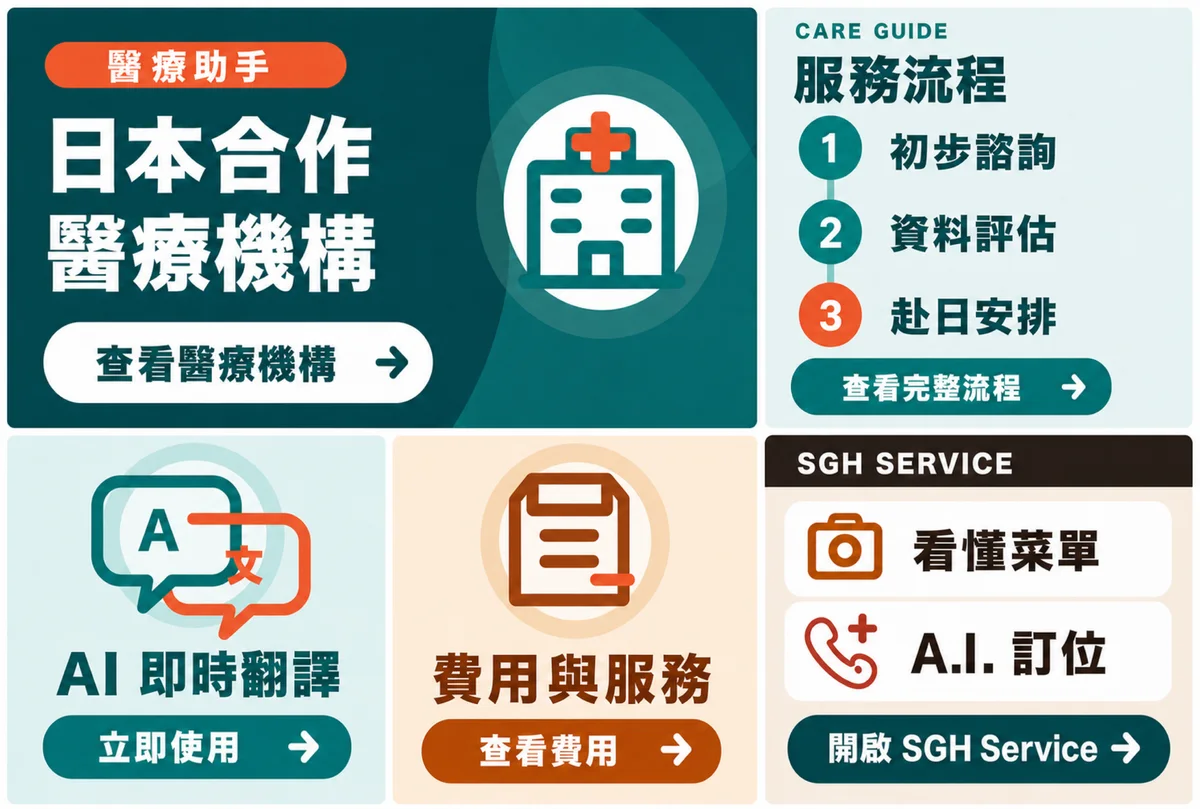
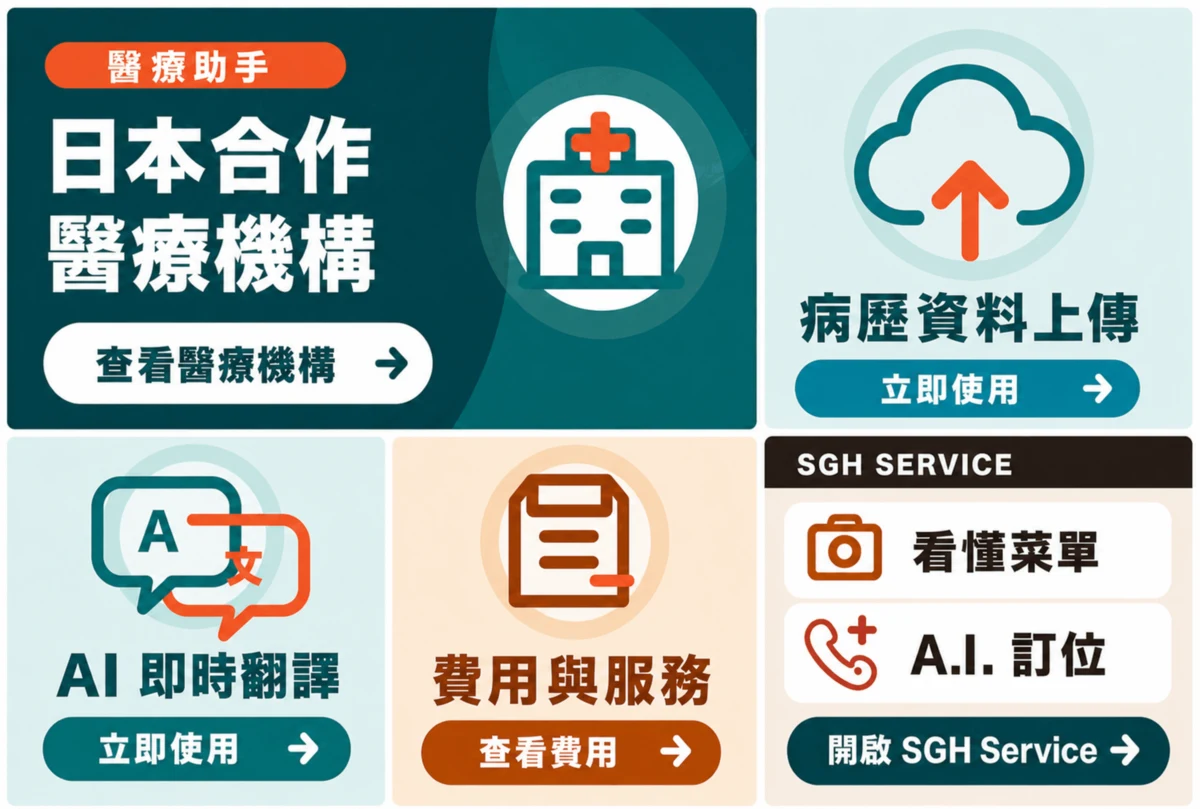
docs: align LINE Rich Menu V6

diff --git a/README.tr.md b/README.tr.md
@@ -67,8 +67,8 @@ LINE yalnızca bir bildirim kanalı değildir. SGH; talebi LINE'da karşılayan,
 
 | LINE/LIFF girişi | Kullanıcının karşılaştığı işlevler | Güncel konumlandırma |
 |---|---|---|
-| Medical Supporter Official LINE | Japonya'daki sağlık kuruluşları, hizmet akışı, danışma kanalı, MyPage yaklaşımı ve rezervasyon/vaka bilgilerine geçiş | Resmî danışma girişi ve LINE Login akışı mevcut; Rich Menu kullanımda. MyPage MVP/entegrasyon hazırlığı aşamasında |
-| 醫療助手 LINE | Sağlık kuruluşu rehberi, hizmet akışı, AI anlık çeviri girişi, ücret/hizmet bilgisi ve SGH SERVICE | LINE Official Account ve Rich Menu kullanım örneği mevcut. Çeviri iletişimi destekler; tıbbi karar vermez |
+| Medical Supporter Official LINE | Japonya'daki sağlık kuruluşları, MyPage, yönlendirmeye bağlı tıbbi belge yükleme, AI anlık çeviri ve SGH SERVICE | Rich Menu V6 kullanımı doğrulandı. MyPage MVP/entegrasyon aşamasında; belgeler yalnızca kimliği doğrulanmış resmî akışta işlenir |
+| 醫療助手 LINE | Japonya'daki sağlık kuruluşları, yönlendirmeye bağlı tıbbi belge yükleme, AI anlık çeviri, ücret/hizmet bilgisi ve SGH SERVICE | Rich Menu V6 kullanımı doğrulandı. Çeviri iletişimi destekler; tıbbi karar vermez |
 | SGH SERVICE LINE/LIFF | AI'ın talebi yapılandırıp Web doğrulama, üyelik ve başvuru akışına aktardığı hizmet girişi | Uygulama örneği mevcut. Gerçek gönderim, haricî AI, rezervasyon ve telefon; kimlik doğrulama, sözleşme ve ücret kontrolünden sonra |
 | MenuBridge LIFF | Kamerayla menüyü okuyup içeriği ve sipariş koşullarını çok dilli anlamaya yarayan giriş | Mevcut ürün yüzeyi. AI kullanım miktarı ve sunum koşulları hizmet ekranına tabidir |
 | Klinikler için LINE/LIFF | LINE rezervasyonu, MyPage, bildirim ve online görüşmeye giriş akışı | MS Platform public mock demo ve productized pre-pilot. Gerçek kullanım, kuruma özel sözleşme ve başlangıç ayarlarından sonra |
@@ -81,17 +81,17 @@ LINE yalnızca bir bildirim kanalı değildir. SGH; talebi LINE'da karşılayan,
     <td width="50%"><img src="assets/medical-assistant-line-rich-menu.webp" alt="Tıbbi destek LINE Rich Menu"></td>
   </tr>
   <tr>
-    <td align="center"><strong>MEDICAL SUPPORTER</strong><br>MyPage, danışma durumu, rezervasyon kaydı ve belge yolu</td>
-    <td align="center"><strong>醫療助手</strong><br>Hizmet akışı, AI çeviri yolu ve SGH SERVICE</td>
+    <td align="center"><strong>MEDICAL SUPPORTER</strong><br>MyPage, tıbbi belge yükleme, AI anlık çeviri ve SGH SERVICE</td>
+    <td align="center"><strong>醫療助手</strong><br>Tıbbi belge yükleme, AI anlık çeviri, ücret/hizmet ve SGH SERVICE</td>
   </tr>
 </table>
 
-Yukarıdaki örneklerin 22 Temmuz 2026 tarihinde mevcut LINE Official Account'lara kaydedildiği doğrulanmıştır. Bu, her düğmenin hedefinin veya tüm MyPage işlevlerinin production ortamında genel kullanıma açık olduğu anlamına gelmez. Skill'i kurmak da bu işlevleri ya da ücretli SGH hizmetlerini ücretsiz hâle getirmez.
+Yukarıdaki Rich Menu V6 örnekleri 24 Temmuz 2026 tarihinde mevcut LINE Official Account'lara kaydedilmiş ve altı URI action doğrulanmıştır. Bu, bağlı her işlevin production ortamında genel kullanıma açık olduğu anlamına gelmez. Herkese açık Skill tıbbi belge almaz veya yüklemez; kurulumu SGH telefonu, insan operasyonları ya da diğer ücretli hizmetleri ücretsiz hâle getirmez.
 
 > [!IMPORTANT]
 > Herkese açık Skill LINE mesajı göndermez veya Rich Menu yayımlamaz. Hasta kaydı oluşturmaz, tıbbi belge yüklemez, telefon etmez, rezervasyon veya ödeme yapmaz. Bu katman yalnızca hizmet keşfi, gereksinim düzenleme, Brief hazırlama ve resmî kanala yönlendirme sağlar.
 
-[Medical Supporter'ı inceleyin](https://medicalsupporter.org/?utm_source=github&utm_medium=referral&utm_campaign=sgh_skill) ・ [Medical Supporter Official LINE'ı açın](https://line.me/R/ti/p/%40acl1165c)
+[Medical Supporter'ı inceleyin](https://medicalsupporter.org/?utm_source=github&utm_medium=referral&utm_campaign=sgh_skill) ・ [Medical Supporter Official LINE'ı açın](https://line.me/R/ti/p/%40139snanl) ・ [醫療助手 LINE'ı açın](https://line.me/R/ti/p/%40acl1165c)
 
 ## Tek bir Bot değil, yeniden kullanılabilir bir LINE uygulama portföyü
 
@@ -173,7 +173,7 @@ Durumu ve sonucu izle ← Yalnızca gerektiğinde ← Doğru resmî kanala yöne
 - Japonca bir başvurunun içeriğini hazırlamak isteyenler
 - Rezervasyon, otel ve günlük yaşam hizmetleri için sorulacakları düzenlemek isteyenler
 - Uluslararası hasta desteği için doğru danışma kanalını arayanlar
-- Medical Supporter LINE, MyPage ve hizmet akışının girişini görmek isteyenler
+- Medical Supporter/醫療助手 LINE üzerinden MyPage, tıbbi belge yükleme, AI anlık çeviri ve ücret/hizmet için doğru girişi bulmak isteyenler
 - Japonca bir sonucu veya açıklamayı kendi dillerinde anlamak isteyenler
 
 ### Şirketler, klinikler, yerel yönetimler ve konaklama işletmeleri
@@ -294,7 +294,7 @@ SGH Pass, satın alınmış veya bedeli düzenleyen kuruluş tarafından karşı
 | Korece ve Türkçe | Yalnızca README / discovery copy |
 | API sonuç dilleri | Japonca, Geleneksel Çince ve İngilizce (Phase 1) |
 
-Son doğrulama: **2026-07-22**
+Son doğrulama: **2026-07-24**
 
 ## Kurulum
 

diff --git a/README.ko.md b/README.ko.md
@@ -67,8 +67,8 @@ LINE은 단순한 알림 채널이 아닙니다. SGH는 LINE에서 상담을 접
 
 | LINE/LIFF 입구 | 사용자가 만나는 기능 | 현재 위치 |
 |---|---|---|
-| Medical Supporter Official LINE | 일본 의료기관 안내, 서비스 흐름, 상담 창구, MyPage 구상, 예약·사례 정보로 이어지는 동선 | 공식 상담 입구와 LINE Login 동선이 있으며 Rich Menu 운영 중. MyPage는 MVP/연계 정비 중 |
-| 醫療助手 LINE | 의료기관 안내, 서비스 흐름, AI 실시간 번역 입구, 요금·서비스, SGH SERVICE | LINE Official Account와 Rich Menu 운영 사례가 있음. 번역은 의사소통 보조이며 의료 판단이 아님 |
+| Medical Supporter Official LINE | 일본 의료기관, MyPage, 안내에 따른 의료기록 제출, AI 실시간 번역, SGH SERVICE | Rich Menu V6 운영 확인. MyPage는 MVP/연계 정비 중이며 자료는 인증된 공식 동선에서만 처리 |
+| 醫療助手 LINE | 일본 의료기관, 안내에 따른 의료기록 제출, AI 실시간 번역, 요금·서비스, SGH SERVICE | Rich Menu V6 운영 확인. 번역은 의사소통 보조이며 의료 판단이 아님 |
 | SGH SERVICE LINE/LIFF | AI가 상담을 구조화해 Web 확인, 회원, 요청 동선으로 넘기는 서비스 입구 | 구현 사례 있음. 실제 발송, 외부 AI, 예약, 전화는 인증·계약·요금 확인 후 |
 | MenuBridge LIFF | 카메라로 메뉴를 읽고 다국어로 내용과 주문 조건을 이해하는 입구 | 기존 제품 화면. AI 사용량과 제공 조건은 서비스 화면을 따름 |
 | 클리닉용 LINE/LIFF | LINE 예약, MyPage, 알림, 온라인 진료 입실 동선 | MS Platform의 공개 mock Demo 및 productized pre-pilot. 실사용은 의료기관별 계약·초기 설정 후 |
@@ -81,17 +81,17 @@ LINE은 단순한 알림 채널이 아닙니다. SGH는 LINE에서 상담을 접
     <td width="50%"><img src="assets/medical-assistant-line-rich-menu.webp" alt="의료 조수 LINE Rich Menu"></td>
   </tr>
   <tr>
-    <td align="center"><strong>MEDICAL SUPPORTER</strong><br>MyPage·상담 진행·예약 기록·자료 제출 동선</td>
-    <td align="center"><strong>醫療助手</strong><br>서비스 흐름·AI 번역 동선·SGH SERVICE</td>
+    <td align="center"><strong>MEDICAL SUPPORTER</strong><br>MyPage·의료기록 제출·AI 실시간 번역·SGH SERVICE</td>
+    <td align="center"><strong>醫療助手</strong><br>의료기록 제출·AI 실시간 번역·요금/서비스·SGH SERVICE</td>
   </tr>
 </table>
 
-위 이미지는 2026년 7월 22일 기존 LINE Official Account에 저장된 것을 확인한 Rich Menu 사례입니다. 각 버튼의 목적지나 전체 MyPage가 모두 production에서 일반 공개되었다는 뜻은 아니며, Skill 설치만으로 해당 기능 또는 SGH 유료 서비스가 무료로 열리지도 않습니다.
+위 이미지는 2026년 7월 24일 기존 LINE Official Account에 저장하고 여섯 개 URI action을 모두 확인한 Rich Menu V6 사례입니다. 각 연결 기능이 모두 production에서 일반 공개되었다는 뜻은 아닙니다. 공개 Skill은 의료기록을 받거나 업로드하지 않으며, 설치만으로 SGH 전화·인력 운영·기타 유료 서비스가 무료로 열리지도 않습니다.
 
 > [!IMPORTANT]
 > 공개 Skill은 LINE 메시지를 보내거나 Rich Menu를 게시하지 않습니다. 환자 계정을 만들거나 의료기록을 업로드하지 않으며, 전화·예약·결제도 실행하지 않습니다. 여기서는 서비스 발견, 요구사항 정리, Brief 작성과 공식 창구 안내까지만 제공합니다.
 
-[Medical Supporter 보기](https://medicalsupporter.org/?utm_source=github&utm_medium=referral&utm_campaign=sgh_skill) ・ [Medical Supporter Official LINE 열기](https://line.me/R/ti/p/%40acl1165c)
+[Medical Supporter 보기](https://medicalsupporter.org/?utm_source=github&utm_medium=referral&utm_campaign=sgh_skill) ・ [Medical Supporter Official LINE 열기](https://line.me/R/ti/p/%40139snanl) ・ [醫療助手 LINE 열기](https://line.me/R/ti/p/%40acl1165c)
 
 ## 하나의 Bot이 아니라 재사용 가능한 LINE 구현 포트폴리오
 
@@ -171,7 +171,7 @@ Track                 Execute                Route
 - 일본어 문의 내용을 준비하고 싶다
 - 예약, 호텔, 생활 서비스의 확인 항목을 정리하고 싶다
 - 해외 환자 지원의 올바른 상담 창구를 알고 싶다
-- Medical Supporter LINE과 MyPage·서비스 흐름의 입구를 알고 싶다
+- Medical Supporter/醫療助手 LINE에서 MyPage·의료기록 제출·AI 실시간 번역·요금/서비스의 올바른 입구를 알고 싶다
 - 일본어 결과나 안내를 자신의 언어로 이해하고 싶다
 
 ### 기업·클리닉·지자체·숙박 사업자
@@ -292,7 +292,7 @@ SGH Pass는 구매했거나 발행자가 비용을 부담한 이용 자격입니
 | 한국어·터키어 | README / discovery copy만 제공 |
 | API 결과 언어 | 일본어·번체중문·영어(Phase 1) |
 
-최종 확인일: **2026-07-22**
+최종 확인일: **2026-07-24**
 
 ## 설치
 

diff --git a/README.en.md b/README.en.md
@@ -68,8 +68,8 @@ LINE is more than a notification channel. SGH already has LINE Official Account,
 
 | LINE / LIFF entry point | What users can discover | Current positioning |
 |---|---|---|
-| Medical Supporter Official LINE | Medical providers in Japan, the service journey, inquiry channels, the MyPage concept, and routes to booking and case information | Formal consultation and LINE Login routes exist, and the Rich Menu is in operation; MyPage is an MVP under integration; never enter medical records into the public Skill |
-| Medical Assistant LINE | Medical-provider guidance, the service flow, an AI real-time translation entry point, pricing and services, and SGH SERVICE | LINE Official Account / Rich Menu operating example available; translation assists communication and does not replace medical judgment |
+| Medical Supporter Official LINE | Medical providers in Japan, MyPage, an authorized medical-record upload route, AI live translation, and SGH SERVICE | Rich Menu V6 operation confirmed; MyPage is an MVP under integration; records are handled only through an authenticated official route |
+| Medical Assistant LINE | Medical providers in Japan, an authorized medical-record upload route, AI live translation, pricing and services, and SGH SERVICE | Rich Menu V6 operation confirmed; translation assists communication and does not replace medical judgment |
 | SGH SERVICE LINE / LIFF | AI structures a request, then passes it to web-based confirmation, membership, and service-request journeys | Implementation examples exist; real messaging, external AI, reservations, and phone calls require authentication, contract, and pricing checks |
 | MenuBridge LIFF | Use a camera to read a menu and understand its contents and ordering conditions in multiple languages | Existing product surface; AI usage and service conditions follow the applicable service display |
 | Clinic-specific LINE / LIFF | Clinic-configured LINE booking, MyPage, notifications, and online-consultation entry | MS Platform public mock demo / productized pre-pilot; production use requires an individual implementation, tenant configuration, and LINE setup |
@@ -82,14 +82,14 @@ LINE is more than a notification channel. SGH already has LINE Official Account,
     <td width="50%"><img src="assets/medical-assistant-line-rich-menu.webp" alt="Medical Assistant LINE Rich Menu"></td>
   </tr>
   <tr>
-    <td align="center"><strong>MEDICAL SUPPORTER</strong><br>MyPage, inquiry progress, booking history, and document journey</td>
-    <td align="center"><strong>MEDICAL ASSISTANT</strong><br>Service flow, AI translation entry, and SGH SERVICE</td>
+    <td align="center"><strong>MEDICAL SUPPORTER</strong><br>MyPage, medical-record upload, AI live translation, and SGH SERVICE</td>
+    <td align="center"><strong>MEDICAL ASSISTANT</strong><br>Medical-record upload, AI live translation, pricing and services, and SGH SERVICE</td>
   </tr>
 </table>
 
-These are Rich Menu examples confirmed as saved in existing LINE Official Accounts on July 22, 2026. They do not mean that every downstream feature shown is fully live, nor do they grant free access to SGH calls, human operations, or other paid services when the GitHub Skill is installed.
+These are Rich Menu V6 examples saved in existing LINE Official Accounts and verified across all six URI actions on July 24, 2026. They do not mean that every downstream feature shown is fully live. The public Skill cannot receive or upload medical records, and installing it does not grant free access to SGH calls, human operations, or other paid services.
 
-[Explore Medical Supporter](https://medicalsupporter.org/?utm_source=github&utm_medium=referral&utm_campaign=sgh_skill) ・ [Open Medical Supporter Official LINE](https://line.me/R/ti/p/%40acl1165c)
+[Explore Medical Supporter](https://medicalsupporter.org/?utm_source=github&utm_medium=referral&utm_campaign=sgh_skill) ・ [Open Medical Supporter Official LINE](https://line.me/R/ti/p/%40139snanl) ・ [Open Medical Assistant LINE](https://line.me/R/ti/p/%40acl1165c)
 
 ## Not one universal Bot—a reusable LINE implementation portfolio
 
@@ -172,7 +172,7 @@ The public Skill supports discovery, structuring, and routing. It does not send 
 
 - Find the appropriate Medical Supporter or Medical Assistant LINE entry point
 - Prepare a Japanese-language inquiry and pre-booking checklist
-- Understand MyPage, the service journey, and international-patient support channels
+- Understand the proper routes for MyPage, medical-record upload, AI live translation, pricing, and international-patient support
 - Understand Japanese-language guidance in your own language
 - Review pricing and shared information before any paid execution
 
@@ -311,7 +311,7 @@ An SGH Pass represents an entitlement that has already been purchased or is fund
 | Korean and Turkish | README / discovery copy |
 | API result languages | Japanese, Traditional Chinese, and English (Phase 1) |
 
-Last reviewed: **2026-07-22**
+Last reviewed: **2026-07-24**
 
 ## Installation
 

diff --git a/skills/sgh-japan-assistant/references/line-and-platform.md b/skills/sgh-japan-assistant/references/line-and-platform.md
@@ -2,7 +2,7 @@
 
 Use this reference when the user mentions LINE, LIFF, Rich Menu, Medical Supporter LINE, 醫療助手, SGH SERVICE, MenuBridge, MS Platform, MyPage, clinic booking, or online consultation.
 
-Last verified: 2026-07-22
+Last verified: 2026-07-24
 
 ## Route selection
 
@@ -18,18 +18,19 @@ Last verified: 2026-07-22
 
 ### Medical Supporter Official LINE
 
-- Verified public surface: an existing LINE Official Account, public add-friend route, LINE Login lead route, privacy/terms pages, and a Rich Menu saved and visually confirmed on 2026-07-22.
-- Visible entry concepts: Japanese medical organizations, consultation, MyPage, case and appointment concepts, instructed medical-record upload, fees/services, and SGH Service.
+- Verified public surface: an existing LINE Official Account, public add-friend route, LINE Login lead route, privacy/terms pages, and Rich Menu V6. The V6 image, thumbnail, and six URI actions were saved and visually verified on 2026-07-24.
+- Visible entry concepts: Japanese medical organizations, MyPage, instructed medical-record upload, AI live translation, and SGH Service.
 - Safe description: an official multilingual consultation and coordination entry for overseas patients.
-- Limit: the current MyPage frontend is MVP/integration-in-progress; do not claim the complete MyPage backend or every Rich Menu destination is generally live. Do not collect a medical record in the public Skill. File upload is only for an authorized user following the service's instructions.
-- Official URLs: https://medicalsupporter.org/ and https://line.me/R/ti/p/%40acl1165c
+- Limit: the current MyPage frontend is MVP/integration-in-progress; do not claim the complete MyPage backend or every Rich Menu destination is generally live. Do not collect a medical record in the public Skill. File upload is only for an authorized user following the service's instructions, and its private destination must not be copied into this public repository.
+- Official URLs: https://medicalsupporter.org/ and https://line.me/R/ti/p/%40139snanl
 
 ### 醫療助手 LINE
 
-- Verified public surface: an existing LINE Official Account and Rich Menu were saved and visually confirmed on 2026-07-22.
-- Visible entry concepts: Japanese medical organizations, service flow, AI live-translation entry, fees/services, and SGH Service.
+- Verified public surface: an existing LINE Official Account and Rich Menu V6. The V6 image, thumbnail, and six URI actions were saved and visually verified on 2026-07-24.
+- Visible entry concepts: Japanese medical organizations, instructed medical-record upload, AI live translation, fees/services, and SGH Service.
 - Safe description: a Traditional-Chinese-facing medical-support and communication entry.
-- Limit: AI translation is communication assistance, not diagnosis, treatment advice, interpretation certification, or a guaranteed real-time service in every context.
+- Limit: AI translation is communication assistance, not diagnosis, treatment advice, interpretation certification, or a guaranteed real-time service in every context. Medical-record upload is available only through the authorized service route; its private destination is intentionally omitted here.
+- Official URL: https://line.me/R/ti/p/%40acl1165c
 
 ### SGH SERVICE / MenuBridge LINE and LIFF
 

diff --git a/skills/sgh-japan-assistant/references/service-catalog.md b/skills/sgh-japan-assistant/references/service-catalog.md
@@ -6,7 +6,7 @@ Use this catalog for discovery and routing. Do not convert a service description
 - Official company source: https://www.shingihou.com/ja
 - Official service directory: https://www.shingihou.com/ja/services
 - Multilingual service directory: https://www.shingihou.jp/
-- Last verified: 2026-07-22
+- Last verified: 2026-07-24
 
 ## Service routes
 
@@ -18,7 +18,7 @@ Use this catalog for discovery and routing. Do not convert a service description
 - Separate SGH work: actual institutional contact, interpretation, document, procedure, and human coordination work.
 - Status: official consultation service; individual feasibility review required.
 - Official URL: https://medicalsupporter.org/
-- Official LINE: https://line.me/R/ti/p/%40acl1165c
+- Official LINE: https://line.me/R/ti/p/%40139snanl
 - Boundary: the Official LINE consultation / lead route exists; the current MyPage is MVP/integration-in-progress and must not be described as a generally complete live backend.
 - Do not claim: diagnosis, medical advice, guaranteed acceptance, guaranteed arrival, guaranteed treatment, or guaranteed outcomes.
 
@@ -26,7 +26,7 @@ Use this catalog for discovery and routing. Do not convert a service description
 
 - Public name: SGH LINE Bot / LIFF solutions
 - Fit: LINE Official Account positioning, Rich Menu information architecture, multilingual FAQ, LIFF entry, booking or MyPage routing, notifications, CRM/calendar/n8n connection, and human handoff.
-- Verified examples: Medical Supporter and 醫療助手 Rich Menus, SGH SERVICE structured LINE intake, MenuBridge LINE/LIFF, LINE Commerce code paths, and a clinic-specific Demo/MVP Bot. Each has a different production status and authorization boundary. See [line-and-platform.md](line-and-platform.md).
+- Verified examples: Medical Supporter and 醫療助手 Rich Menu V6, SGH SERVICE structured LINE intake, MenuBridge LINE/LIFF, LINE Commerce code paths, and a clinic-specific Demo/MVP Bot. Medical Supporter V6 presents MyPage, an authorized medical-record upload route, AI live translation, and SGH Service. 醫療助手 V6 presents an authorized medical-record upload route, AI live translation, fees/services, and SGH Service. Each has a different production status and authorization boundary. See [line-and-platform.md](line-and-platform.md).
 - Public Skill may: choose the relevant existing entry, prepare a No-PHI LINE Entry Brief, propose a six-area Rich Menu structure, and distinguish static information from tenant-authenticated functions.
 - Separate SGH work: channel setup, LINE Login, LIFF, webhook, content, tenant configuration, CRM integration, testing, publication, monitoring, and operations.
 - Status: existing SGH examples and implementation assets exist; each new brand, account, destination, and production function requires separate verification and quotation.

diff --git a/docs/repository-audit.md b/docs/repository-audit.md
@@ -122,3 +122,14 @@ Remote MCPの実行面は引き続き `PHONE_INQUIRY`、`RESERVATION`、`RESCHED
 | MS Platform | 公開mock Demo、tenant-aware LINE／LIFF／MyPage／通知／video／selected payment path | productized pre-pilot。実運用は個別導入・初期設定後 |
 
 Medical Supporter Official LINEは患者側の発見・相談入口、MS Platformは医療機関側の運用layer、SGH Skillは両者を説明してNo-PHI Briefと公開Demoへつなぐ役割とする。公開SkillからLINE送信、Rich Menu公開、患者登録、病歴upload、LIFF予約、診療入室、payment又は外部AI処理を実行しない。
+
+## 2026-07-24 Rich Menu V6 再確認
+
+Medical Supporter／醫療助手の最新Rich Menu V6について、production用画像、preview、LINE Official Account上の保存状態及び各6件のURI actionを再確認した。V5の画像と説明を公開repositoryから差し替えた。
+
+| LINE入口 | V6で確認した表示入口 | 公開Skillでの扱い |
+|---|---|---|
+| Medical Supporter Official LINE | 日本の医療機関、MyPage、案内に従う医療資料upload、AI即時翻訳、SGH Service | MyPageはMVP／連携整備中。医療資料は認証済み正式導線のみ。公開Skillでは受領・uploadしない |
+| 醫療助手 LINE | 日本の医療機関、案内に従う医療資料upload、AI即時翻訳、費用・サービス、SGH Service | 翻訳はコミュニケーション補助。医療資料の非公開upload先は公開repositoryへ記載しない |
+
+Medical Supporter Official LINEと醫療助手 LINEは別アカウントである。公開READMEでは各add-friend URLを分け、Medical Supporterのリンクが醫療助手へ誤遷移していた状態を修正した。Rich Menu表示は、電話、予約、人的作業、外部AI又はその他有料機能の無料利用権を付与しない。
